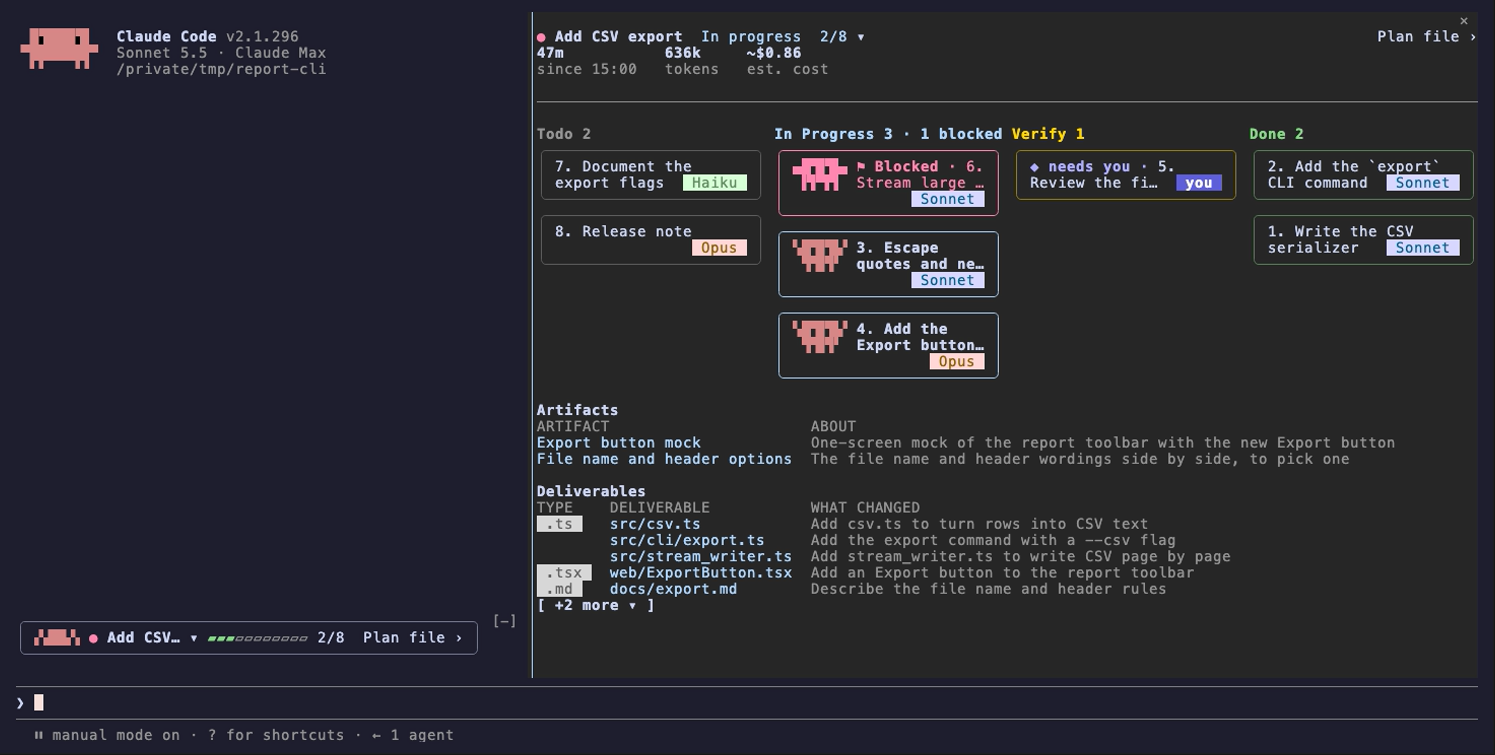
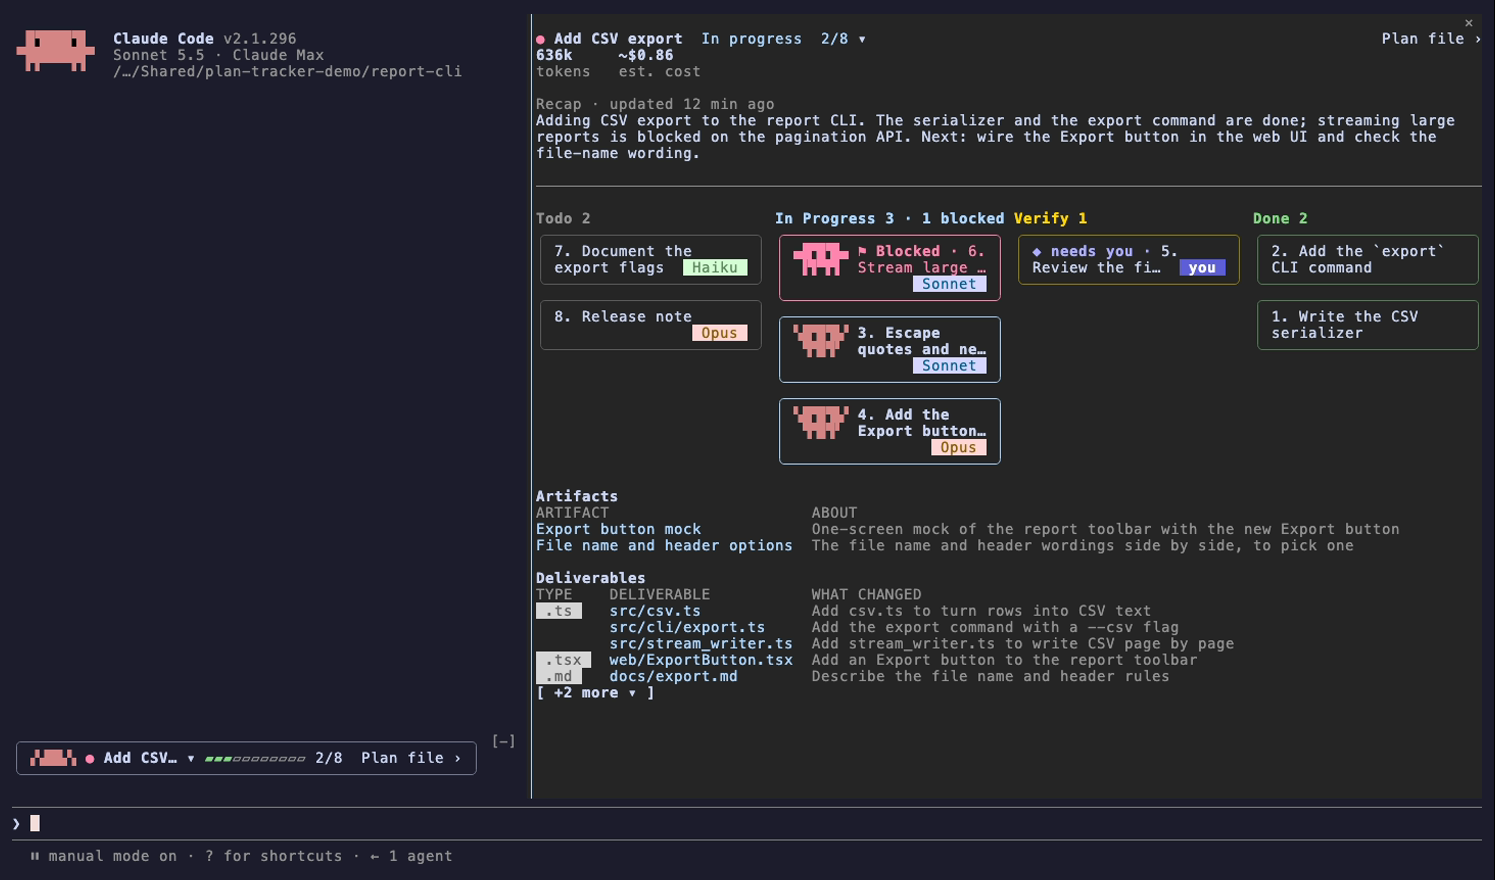
docs: re-shoot board.png for 0.6.23; state images in the README tables

diff --git a/README.md b/README.md
@@ -27,24 +27,24 @@ Claude Code's todo list shows a session's steps. plan-tracker shows the approved
 
 Plan state, in the header, the band and the plan list. The plan's only time is in the state word; a time from another day carries its day (`Done at Oct 11 21:40`).
 
-| State | When | Time shown |
-|---|---|---|
-| In progress | A task is In Progress or Verifying and is not marked stalled | none |
-| Stalled | Every In Progress or Verifying task is stalled: your board command marks it with `stalled_since`, meaning no session is working on it. A plain `PROGRESS.md` has no session data and never shows this | `Stalled since 19:23`, the newest `stalled_since` |
-| Idle | No task is In Progress or Verifying, including a plan nothing has started | `Idle since 19:40`, from `idle_since`; plain `Idle` without it |
-| Done | Every task is Done or Canceled (one at least Done), or your board command sends `finished` | `Done at 21:40`, from `finished`, else `updated`; plain `Done` with neither |
+| Looks like | State | When | Time shown |
+|---|---|---|---|
+| <img src="docs/states/plan-in-progress.png" alt="In progress plan header" height="16"> | In progress | A task is In Progress or Verifying and is not marked stalled | none |
+| <img src="docs/states/plan-stalled.png" alt="Stalled plan header" height="16"> | Stalled | Every In Progress or Verifying task is stalled: your board command marks it with `stalled_since`, meaning no session is working on it. A plain `PROGRESS.md` has no session data and never shows this | `Stalled since 19:23`, the newest `stalled_since` |
+| <img src="docs/states/plan-idle.png" alt="Idle plan header" height="16"> | Idle | No task is In Progress or Verifying, including a plan nothing has started | `Idle since 19:40`, from `idle_since`; plain `Idle` without it |
+| <img src="docs/states/plan-done.png" alt="Done plan header" height="16"> | Done | Every task is Done or Canceled (one at least Done), or your board command sends `finished` | `Done at 21:40`, from `finished`, else `updated`; plain `Done` with neither |
 
 What a task card shows. The tag names who does the task or takes it next, so a Done card has none; a task whose route names neither a model nor you has none either.
 
-| Card | How it looks |
-|---|---|
-| Running | In Progress or Verifying: the mascot moves; the tag is the model doing it (`Opus`, `Sonnet`, `Haiku`) or `you`; on a Verifying card it is the checker |
-| Stalled | Running but marked `stalled_since`: the mascot stands still and a grey tag, `stalled 19:23` (`stalled Oct 11` from another day), replaces the model tag; a card too narrow for the time shows the bare `stalled` |
-| Waiting for you | Needs Verification and you are its checker or its executor: `◆ needs you ·` before the name, tag `you` |
-| Waiting for a check | Needs Verification with another checker: no marker; the tag is the checker's model |
-| Blocked | Red, `⚑ Blocked ·` before the name, the mascot frozen; the tag is who runs it |
-| Todo | No mascot; the tag is who will do it: a model, or `you` |
-| Done | No tag; its page says who did it |
+| Looks like | Card | How it looks |
+|---|---|---|
+| <img src="docs/states/card-running.png" alt="Running task card" height="64"> | Running | In Progress or Verifying: the mascot moves; the tag is the model doing it (`Opus`, `Sonnet`, `Haiku`) or `you`; on a Verifying card it is the checker |
+| <img src="docs/states/card-stalled.png" alt="Stalled task card" height="64"> | Stalled | Running but marked `stalled_since`: the mascot stands still and a grey tag, `stalled 19:23` (`stalled Oct 11` from another day), replaces the model tag; a card too narrow for the time shows the bare `stalled` |
+| <img src="docs/states/card-waiting-for-you.png" alt="Waiting for you task card" height="64"> | Waiting for you | Needs Verification and you are its checker or its executor: `◆ needs you ·` before the name, tag `you` |
+| <img src="docs/states/card-waiting-for-check.png" alt="Waiting for a check task card" height="64"> | Waiting for a check | Needs Verification with another checker: no marker; the tag is the checker's model |
+| <img src="docs/states/card-blocked.png" alt="Blocked task card" height="64"> | Blocked | Red, `⚑ Blocked ·` before the name, the mascot frozen; the tag is who runs it |
+| <img src="docs/states/card-todo.png" alt="Todo task card" height="64"> | Todo | No mascot; the tag is who will do it: a model, or `you` |
+| <img src="docs/states/card-done.png" alt="Done task card" height="64"> | Done | No tag; its page says who did it |
 
 ## Board file
 
